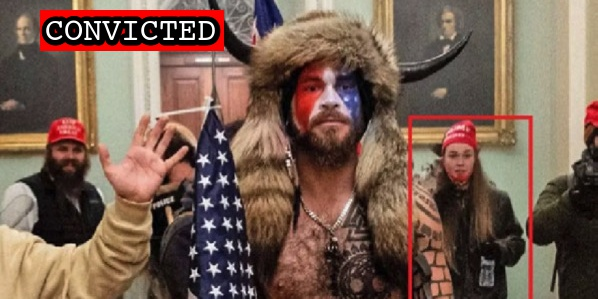
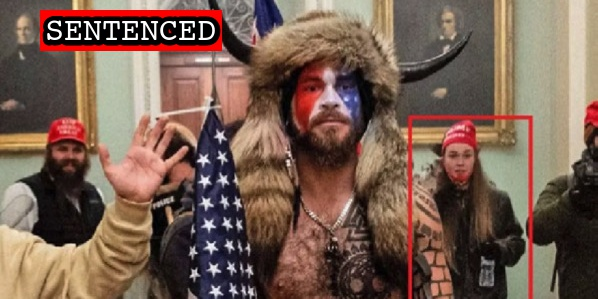
Latest sentencing

Changed region(s): [[0.0602, 0.0301, 0.301, 0.1806], [0.3612, 0.0301, 0.3913, 0.1806]]

diff --git a/docs/_suspects/savannah-mcdonald.md b/docs/_suspects/savannah-mcdonald.md
@@ -4,13 +4,13 @@ lastName: Mcdonald
 hashtag: SavannahMcdonald
 aka:
 residence: Georgia
-status: Convicted
+status: Sentenced
 date: 2021-06-11
 charged: 2021-06-11
 indicted:
 convicted: 2022-01-18
 acquitted:
-sentenced:
+sentenced: 2022-05-10
 dismissed:
 deceased:
 plea_hearing: 2022-01-18
@@ -36,12 +36,15 @@ published: true
 caseNumber: 1:21-cr-429
 videos:
 charges:
-- code: 40 USC § 5104(e)(2)(G)
-  title: Parading, demonstrating or picketing in a Capitol building
-  url: https://www.law.cornell.edu/uscode/text/40/5104
-  felony: false
+  - code: 40 USC § 5104(e)(2)(G)
+    title: Parading, demonstrating or picketing in a Capitol building
+    url: https://www.law.cornell.edu/uscode/text/40/5104
+    felony: false
 sentence:
+  - 21 days in prison
+  - $500 restitution
 ---
+
 - [News Report](https://www.emptywheel.net/2021/06/15/the-delayed-trespassing-charges-against-savanah-mcdonald-and-nolan-kidd/)
 - [Statement of Facts](https://www.justice.gov/usao-dc/case-multi-defendant/file/1404531/download)
 - [Information](https://www.justice.gov/usao-dc/case-multi-defendant/file/1410706/download)

diff --git a/docs/_suspects/brent-holdridge.md b/docs/_suspects/brent-holdridge.md
@@ -14,6 +14,7 @@ dismissed:
 deceased:
 plea_hearing:
 sentencing:
+trial_date: 2022-08-29
 age: 56
 occupation:
 affiliations:
@@ -36,6 +37,7 @@ videos:
 charges:
 sentence:
 ---
+
 - [News Report](https://www.msn.com/en-us/news/crime/eureka-man-linked-to-jan-6-riot-to-appear-in-dc-court/ar-AARtjTH)
 - [Statement of Facts](https://www.justice.gov/usao-dc/case-multi-defendant/file/1459121/download)
 - [Information](https://www.justice.gov/usao-dc/case-multi-defendant/file/1459111/download)
